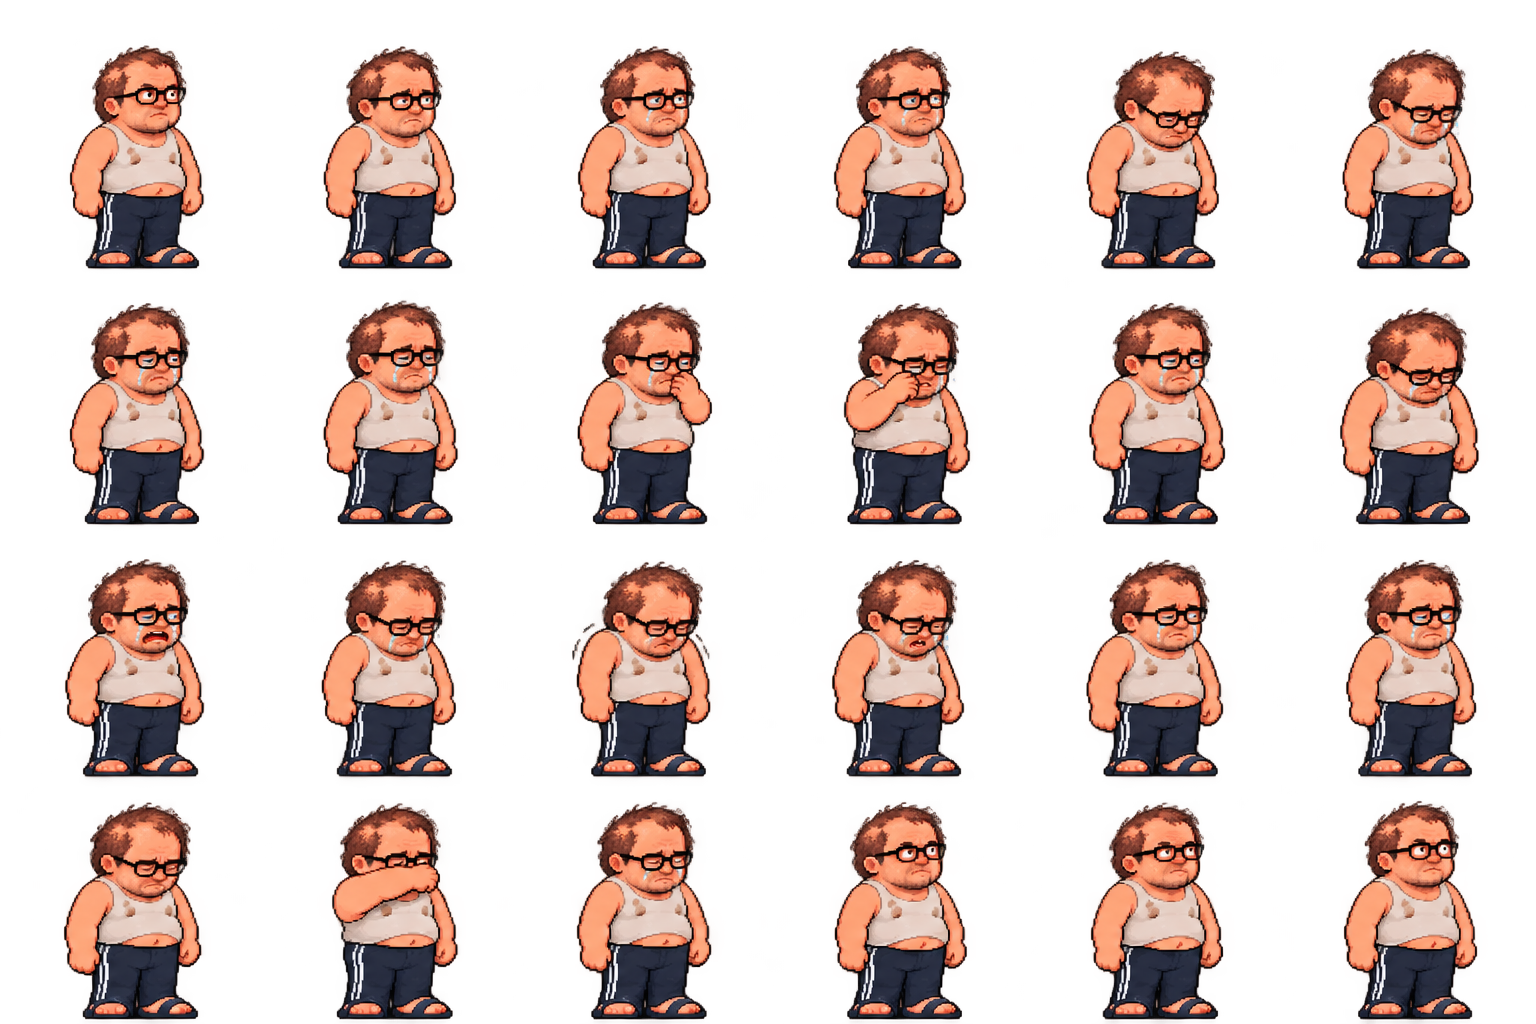
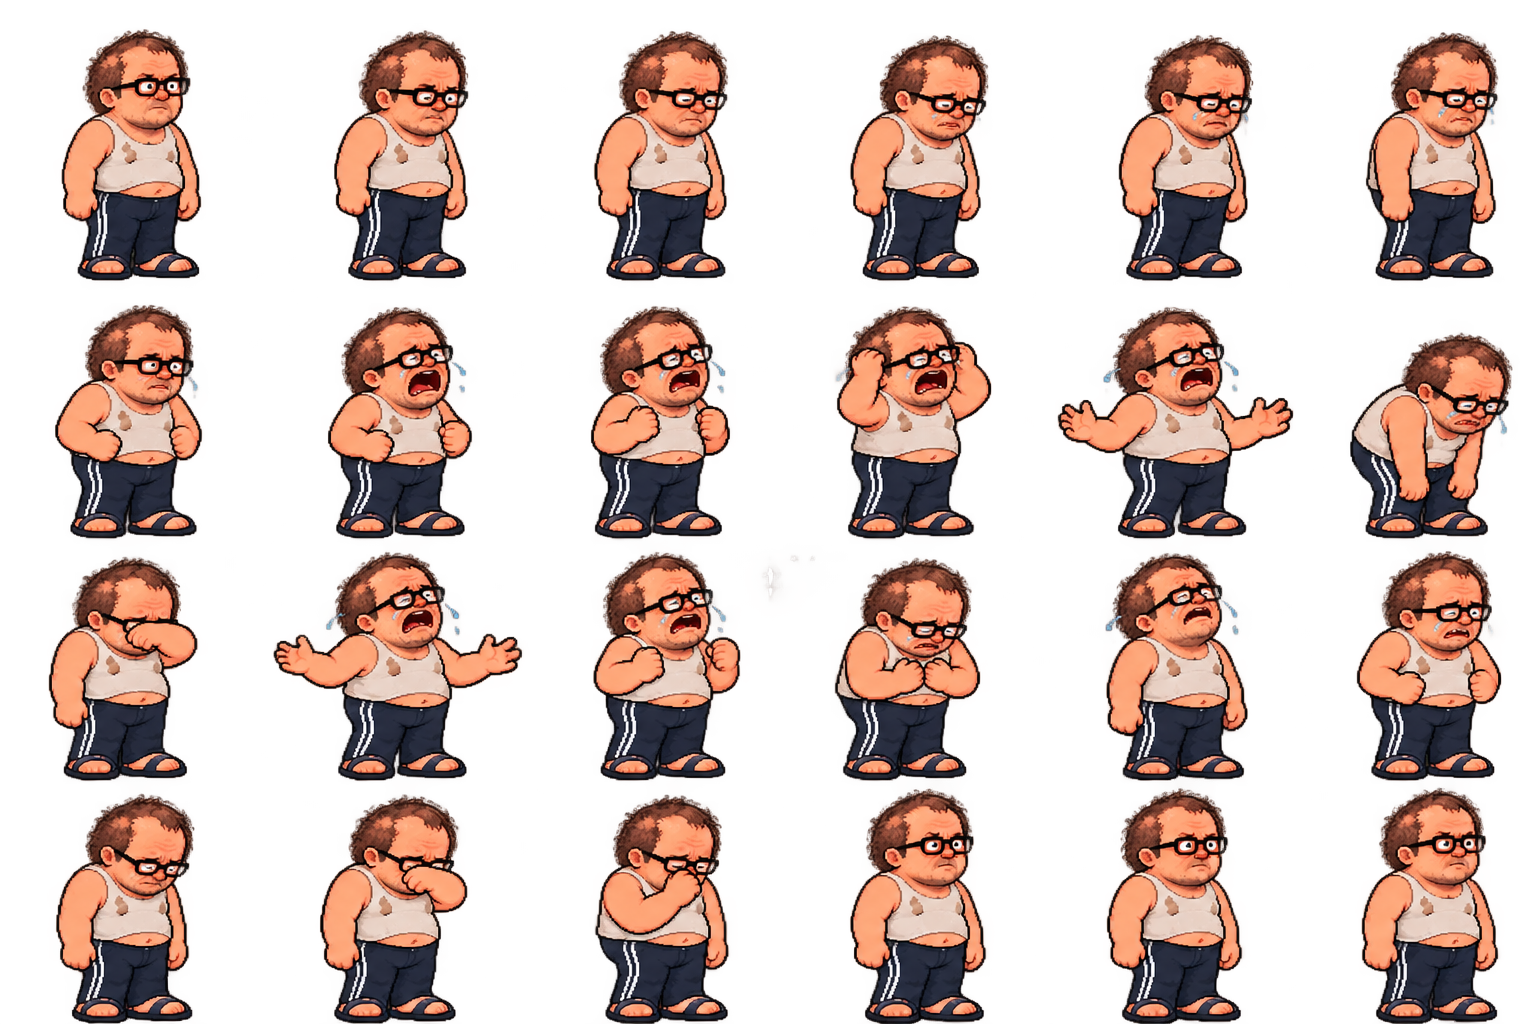
Новая истерика вместо грусти: ревёт и машет руками
Лист sad заменён: 1–6 грустнеет, 7–18 ревёт (кулаки, за голову, машет
руками) два круга, 19–24 вытирает слёзы и успокаивается. Колонки режутся
по рядам (руки широко), кадры совмещены по ногам, белые крошки фона
убраны (опция drop_white). Кнопка «Истерика».

diff --git a/index.html b/index.html
@@ -9,7 +9,7 @@
 <div class="workspace"><section class="stage" aria-label="Анимационный экран"><div class="stage-top"><span><i class="dot"></i><span id="live">ЖИВЁТ СВОЮ ЖИЗНЬ</span></span><span>240 × 240 PX</span></div><div class="device"><canvas id="screen" width="240" height="240" aria-label="Игоряша в комнате"></canvas><div class="device-footer">SMALLTV PRO · ИГОРЯШГОЧИ</div></div><p class="scale-note">Персонаж ≈ 140 px · масштаб без сглаживания</p><div id="error" role="alert"></div></section>
 <aside><div class="intro"><div class="tag">Проверка спрайтшитов</div><h1>Один день Игоряши</h1><p>Пока ты смотришь, он занимается своими делами. Или выбери, чем ему заняться.</p></div>
 <div class="card"><div class="row"><div><div class="label">Сейчас</div><div id="status" class="status" aria-live="polite">Загружается…</div></div><span id="mode" class="mode">АВТО</span></div><div class="progress"><i id="progress"></i></div>
-<div class="actions"><button data-action="idle">Стоять <small>дышит и моргает</small></button><button data-action="walk">Походить <small>готовые 24 кадра</small></button><button data-action="hungry">Просить хинкал <small>стучит в экран</small></button><button data-action="eat">Поесть <small>похлёбка, три подхода</small></button><button data-action="sick">Заболеть <small>тошнит</small></button><button data-action="sleep">Спать <small>засыпает, храпит, встаёт</small></button><button data-action="sad">Грустить <small>плачет и успокаивается</small></button><button data-action="love">Акт любви <small>кукла, обнимашки, бах</small></button><button data-action="tanks">Танки <small>катка, потом победа или ярость</small></button><button data-action="poop">Посрать <small>куча в углу растёт</small></button><button id="clean">Убрать <small>очистить пол</small></button></div>
+<div class="actions"><button data-action="idle">Стоять <small>дышит и моргает</small></button><button data-action="walk">Походить <small>готовые 24 кадра</small></button><button data-action="hungry">Просить хинкал <small>стучит в экран</small></button><button data-action="eat">Поесть <small>похлёбка, три подхода</small></button><button data-action="sick">Заболеть <small>тошнит</small></button><button data-action="sleep">Спать <small>засыпает, храпит, встаёт</small></button><button data-action="sad">Истерика <small>ревёт, машет руками</small></button><button data-action="love">Акт любви <small>кукла, обнимашки, бах</small></button><button data-action="tanks">Танки <small>катка, потом победа или ярость</small></button><button data-action="poop">Посрать <small>куча в углу растёт</small></button><button id="clean">Убрать <small>очистить пол</small></button></div>
 <div class="toolbar"><button id="auto" class="secondary active" aria-pressed="true">Автожизнь</button><button id="pause" class="secondary" aria-pressed="false">Пауза</button><button id="step" class="secondary">Кадр →</button></div></div>
 <div class="card settings"><label>Скорость <span class="row"><input id="speed" type="range" min="0.25" max="2" step="0.25" value="1.75"><output id="speedValue">1.75×</output></span></label><label>Время суток<select id="light"><option value="auto">Авто · по часам</option><option value="morning">Утро</option><option value="day">День</option><option value="night">Ночь</option></select></label><label>Фон<select id="background"><option value="room">Комната</option><option value="gray">Серый</option><option value="light">Светлый</option><option value="dark">Тёмный</option><option value="checker">Прозрачность</option></select></label><label>Размер экрана<select id="zoom"><option value="1">240 px · 1×</option><option value="1.5" selected>360 px · 1.5×</option><option value="2">480 px · 2×</option></select></label><label>Сетка и линия пола<input id="grid" type="checkbox"></label><label>Реплики<input id="speech" type="checkbox" checked></label><label>Тряска экрана<input id="shake" type="checkbox" checked></label><div class="details"><span id="frame">кадр —</span><span>свет: <span id="lightNow">—</span></span><span id="poopCount">куча: 0</span></div></div>
 <p class="hint">Спрайтшиты — PNG из <code>assets/sprites/</code>, собираются из <code>source/</code> скриптом <code>tools/build_sprites.py</code>. Кадр 240×240, ноги на линии пола. Кнопка действия отключает автожизнь.</p></aside></div>

diff --git a/js/animations.js b/js/animations.js
@@ -83,13 +83,13 @@
   const sleepMs = [500, 450, 650, 350, 350, 400, 400, 500,
                    ...sleepLoopMs, ...sleepLoopMs, ...sleepLoopMs, ...sleepLoopMs,
                    400, 650, 350, 500, 350, 350, 400, 600];
-  // Несчастный: грустнеет и пускает слезу (0–11), рыдает 12–17 два круга
-  // (на 15-м трясутся плечи), вытирает слёзы и успокаивается (18–23).
-  const sobLoop = range(6).map(i => i + 12);
-  const sobMs = [420, 300, 260, 220, 320, 360];
-  const sadSeq = [...range(12), ...sobLoop, ...sobLoop, ...range(6).map(i => i + 18)];
-  const sadMs = [600, 450, 400, 400, 450, 450, 400, 400, 350, 400, 400, 450,
-                 ...sobMs, ...sobMs, 400, 550, 400, 400, 450, 700];
+  // Истерика: грустнеет и пускает слезу (0–5), ревёт — сжимает кулаки, хватается
+  // за голову, машет руками (6–17) два круга, вытирает слёзы и успокаивается (18–23).
+  const sobLoop = range(12).map(i => i + 6);
+  const sobMs = [300, 240, 220, 300, 260, 380, 300, 260, 220, 280, 240, 300];
+  const sadSeq = [...range(6), ...sobLoop, ...sobLoop, ...range(6).map(i => i + 18)];
+  const sadMs = [600, 450, 450, 400, 450, 450,
+                 ...sobMs, ...sobMs, 450, 500, 450, 450, 500, 700];
   // Удар по стеклу: весь экран дёргается и затухает.
   const SHAKE = [[3, -1], [-3, 1], [2, 1], [-2, -1], [1, 0], [-1, 0]];
 
@@ -175,10 +175,10 @@
       phrases: ['Чёт я устал…', 'Ой вей, спать.', 'Разбудите к хинкалу.'],
     },
     sad: {
-      label: 'Несчастный. Плачет.',
+      label: 'Истерика. Ревёт.',
       sheet: 'sad',
       frames: seq(sadSeq, sadMs),
-      phrases: ['Ой вей, никто меня не любит…', 'Ну ой… ну за шо?', 'Хинкала нет, и жизни нет.', 'Я просто устал от всего.'],
+      phrases: ['Ой вей, никто меня не любит…', 'Ну ой… ну за шо?!', 'Хинкала нет, и жизни нет!', 'Да за шо мне это всё?!'],
     },
     poop: {
       label: 'У него важное дело',
